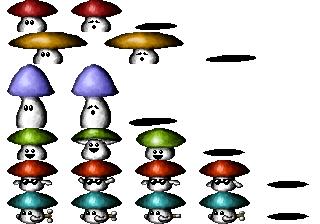
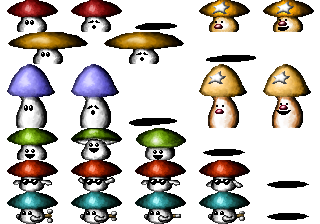
Fixes in mushroom generation

diff --git a/src/scenes/game/game.c b/src/scenes/game/game.c
@@ -16,6 +16,15 @@
 // Constants
 static const float MUSHROOM_GEN_TIME = 90.0f;
 
+// Probabilities
+static const int MUSHROOM_PROB[][6] = {
+    {25, 15, 20, 15, 15, 10}
+};
+static const int MINOR_PROB[][6] = {
+    {10, 0, 10, 25, 0, 25}
+};
+
+
 // Bitmaps
 static Bitmap* bmpFont;
 
@@ -32,6 +41,32 @@ static int prohibitSpecialCount;
 
 // Global speed
 static float globalSpeed;
+// Phase
+static int phase;
+
+
+// Get index by probability
+static int get_index(int prob) {
+
+    int i;
+    int p = MUSHROOM_PROB[phase][0];
+    for (i = 1; i < 6; ++ i) {
+
+        if (prob < p) {
+
+            return i-1;
+        }
+        p += MUSHROOM_PROB[phase][i];
+    }
+    return 5;
+}
+
+
+// Get minor index
+static int get_minor_index(int major, int prob) {
+
+    return prob < MINOR_PROB[phase][major] ? 1 : 0;
+}
 
 
 // Update mushroom generator
@@ -58,16 +93,24 @@ static void update_mushroom_generator(float globalSpeed, float tm) {
     if ((mushroomTimer -= globalSpeed * tm) <= 0.0f) {
 
         // Determine types
-        minor = 0;
-        major = rand() % MAJOR_MAX;
-        if ((-- prohibitSpecialCount < 0) && (major == 5 || major == 3) ) {
+        major = get_index(rand() % 100);
+        minor = get_minor_index(major, rand() % 100);
 
-            minor = rand () % 2;
-            prohibitSpecialCount = PROHIBIT_WAIT;
+        if (minor == 1) {
+
+            if (prohibitSpecialCount > 0) {
+
+                -- prohibitSpecialCount;
+                minor = 0;
+            }
+            else {
+
+                prohibitSpecialCount = PROHIBIT_WAIT;
+            }
         }
 
         // If flying forward, make sure it is drawn last
-        if (major == 5) {
+        if (major == 5 || (major == 3 && minor == 1)) {
 
             dir = -1;
             begin = end;
@@ -140,6 +183,7 @@ static int game_on_load(AssetManager* a) {
     globalSpeed = 1.0f;
     mushroomTimer = 0.0f;
     prohibitSpecialCount = 0;
+    phase = 0;
 
     return 0;
 }

diff --git a/src/scenes/game/mushroom.c b/src/scenes/game/mushroom.c
@@ -24,9 +24,9 @@ static void mush_update_jump(Mushroom* m, float globalSpeed, float tm) {
     const float MAX_GRAVITY = 3.0f;
     const float GRAVITY_DELTA = 0.15f;
     const float JUMP_WAIT = 30.0f;
-    const float JUMP_HEIGHT_MAX = -4.5f;
+    const float JUMP_HEIGHT_MAX = -5.0f;
     const float JUMP_HEIGHT_MIN = -3.5f;
-    const float FORWARD_JUMP_SPEED = 0.5f;
+    const float FORWARD_JUMP_SPEED = 0.25f;
 
     if (m->majorType == 3) {
 
@@ -139,7 +139,7 @@ float mush_activate(Mushroom* m, Vector2 pos, int major, int minor) {
     const int FLY_POS_VARY = -48;
 
     const float WAIT_MOD[] = {
-        1.0f, 1.25f, 1.0f, 1.0f, 1.0f, 0.40f,
+        1.0f, 1.25f, 1.0f, 1.0f, 1.0f, 0.75f,
     };
 
     const int WIDTHS[] = {
@@ -211,12 +211,12 @@ void mush_update(Mushroom* m, float globalSpeed, float tm) {
         m->bounceTimer -= 1.0f * tm;
 
         if (!spc)
-            m->spr.frame = m->minorType * 2 +1;
+            m->spr.frame = m->minorType * 3 +1;
     }
     else {
 
         if (!spc)
-            m->spr.frame = m->minorType * 2;
+            m->spr.frame = m->minorType * 3;
     }
 
     // Jumping
